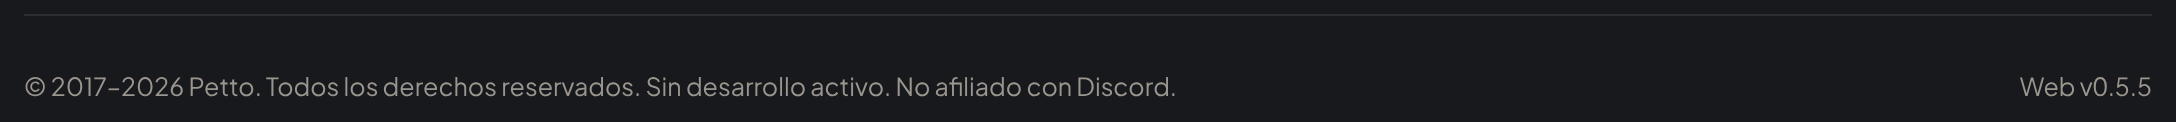
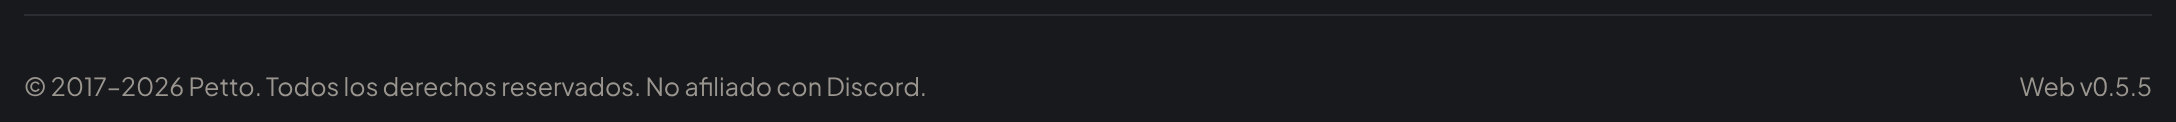
Footer: no word about development, only © 2017–2026, all rights reserved and not affiliated with Discord
Currently log entry and its picture updated.

Changed region(s): [[0.2812, 0.6393, 0.5625, 0.7869]]

diff --git a/src/i18n/ui.ts b/src/i18n/ui.ts
@@ -837,7 +837,7 @@ export const ui = {
       ],
       partners: 'Partners',
       credits: 'Credits',
-      copy: '© 2017–2026 Petto. All rights reserved. Not in active development. Not affiliated with Discord.',
+      copy: '© 2017–2026 Petto. All rights reserved. Not affiliated with Discord.',
     },
     toolsPage: {
       timestamp: {
@@ -2520,7 +2520,7 @@ export const ui = {
       ],
       partners: 'Partners',
       credits: 'Créditos',
-      copy: '© 2017–2026 Petto. Todos los derechos reservados. Sin desarrollo activo. No afiliado con Discord.',
+      copy: '© 2017–2026 Petto. Todos los derechos reservados. No afiliado con Discord.',
     },
     toolsPage: {
       timestamp: {
@@ -4203,7 +4203,7 @@ export const ui = {
       ],
       partners: 'Partners',
       credits: 'Créditos',
-      copy: '© 2017–2026 Petto. Todos os direitos reservados. Sem desenvolvimento ativo. Não afiliado ao Discord.',
+      copy: '© 2017–2026 Petto. Todos os direitos reservados. Não afiliado ao Discord.',
     },
     toolsPage: {
       timestamp: {
